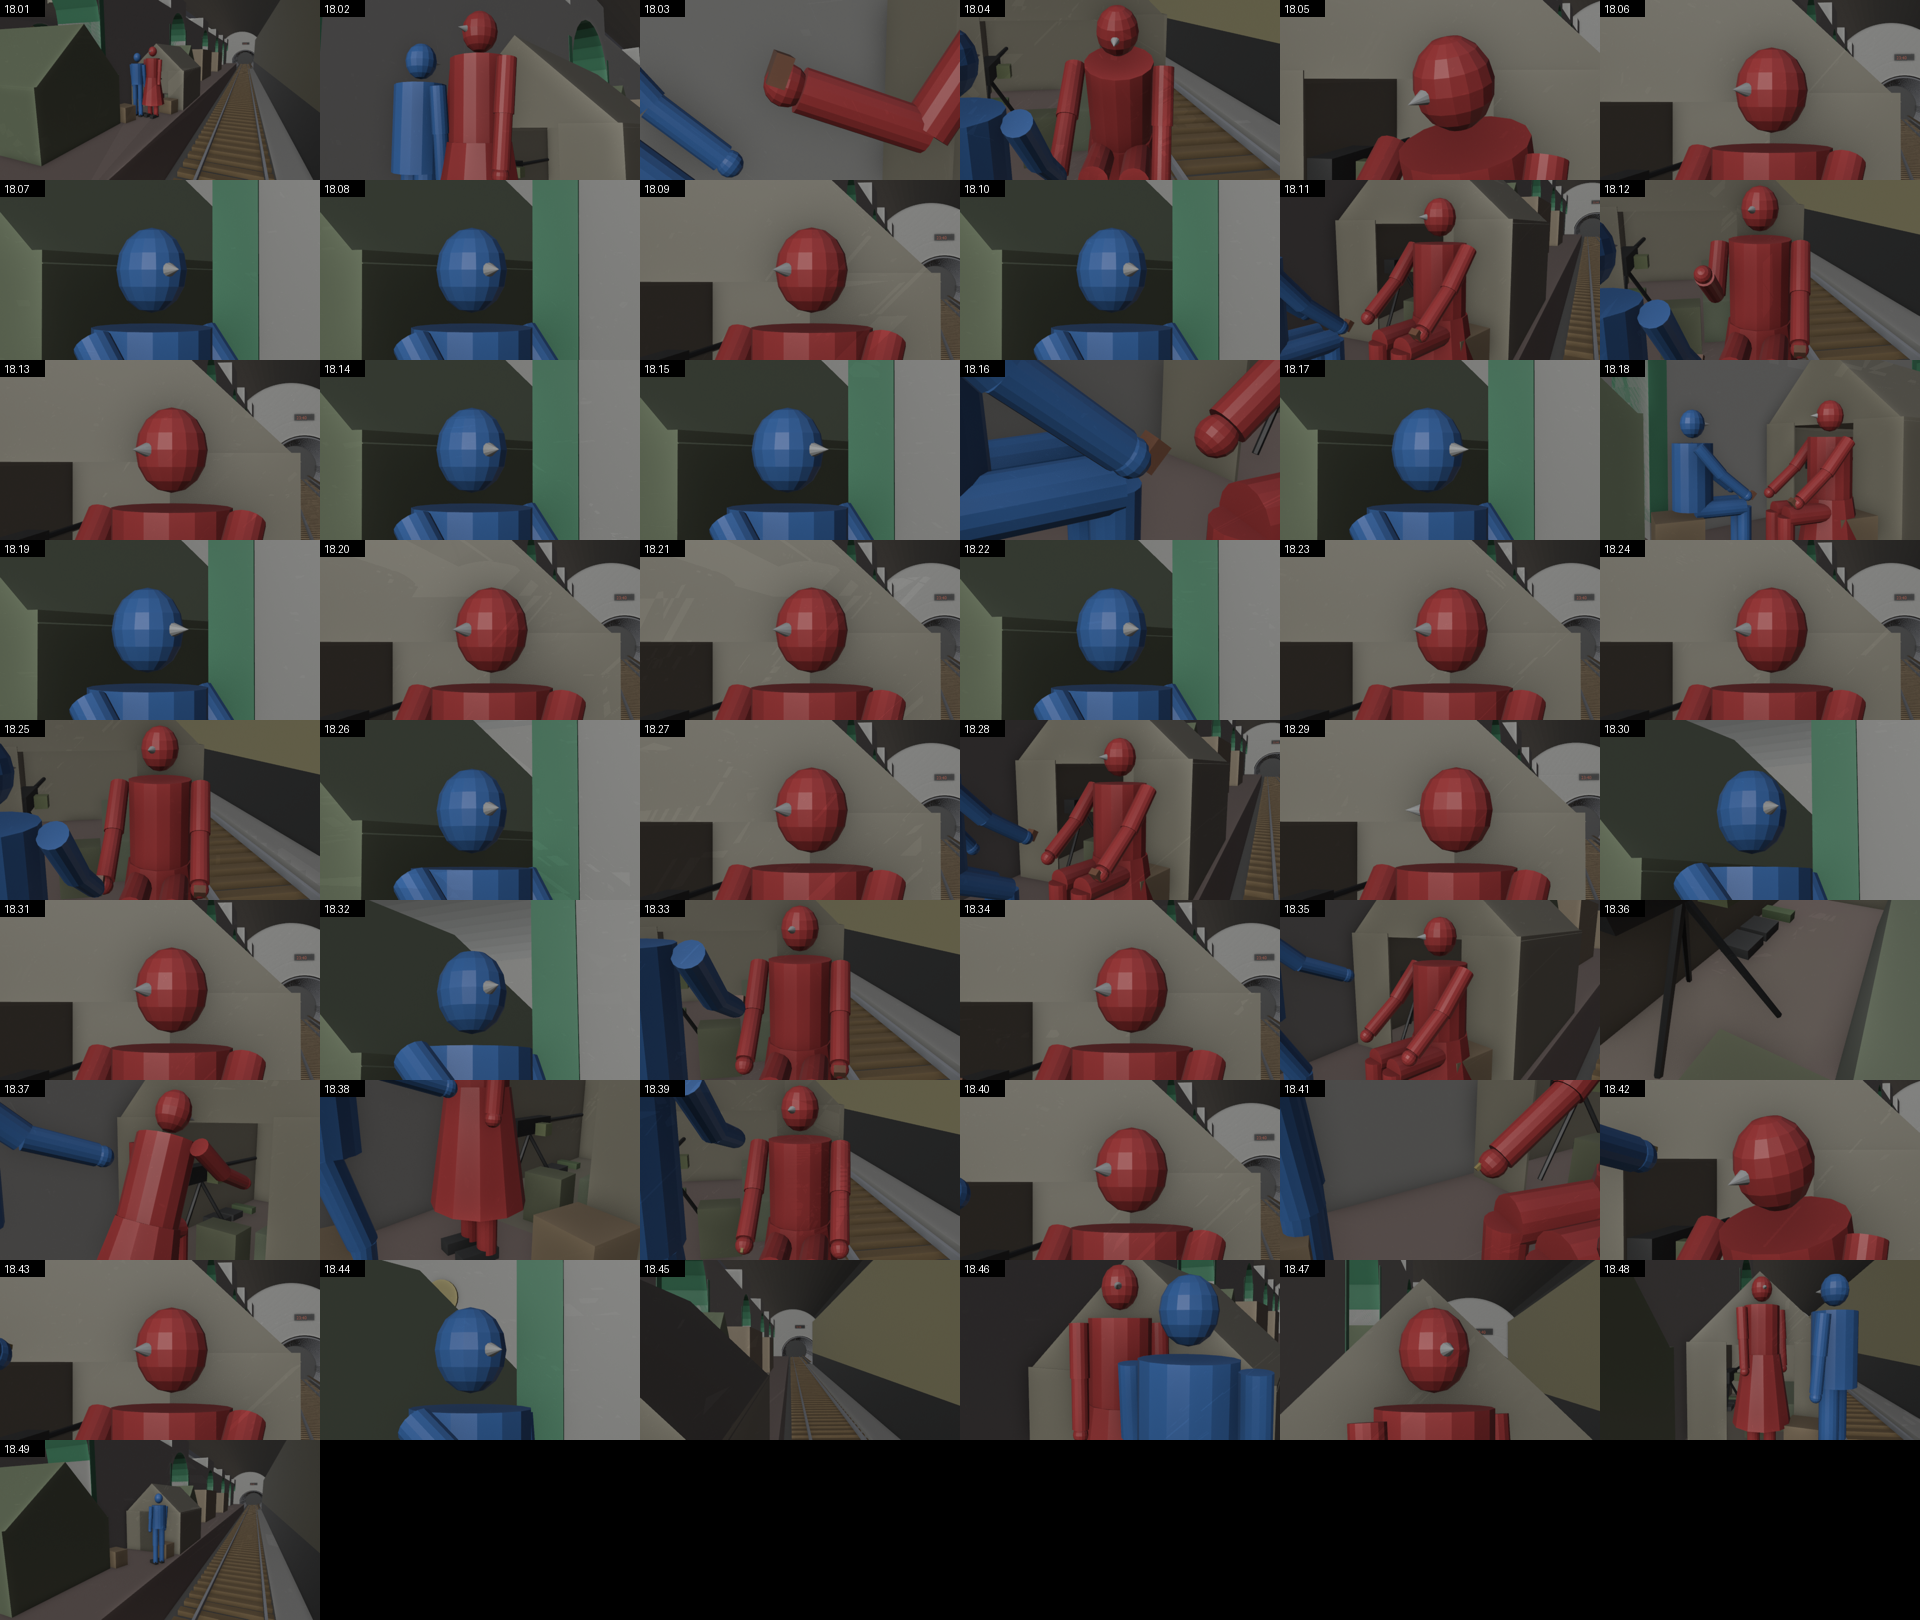
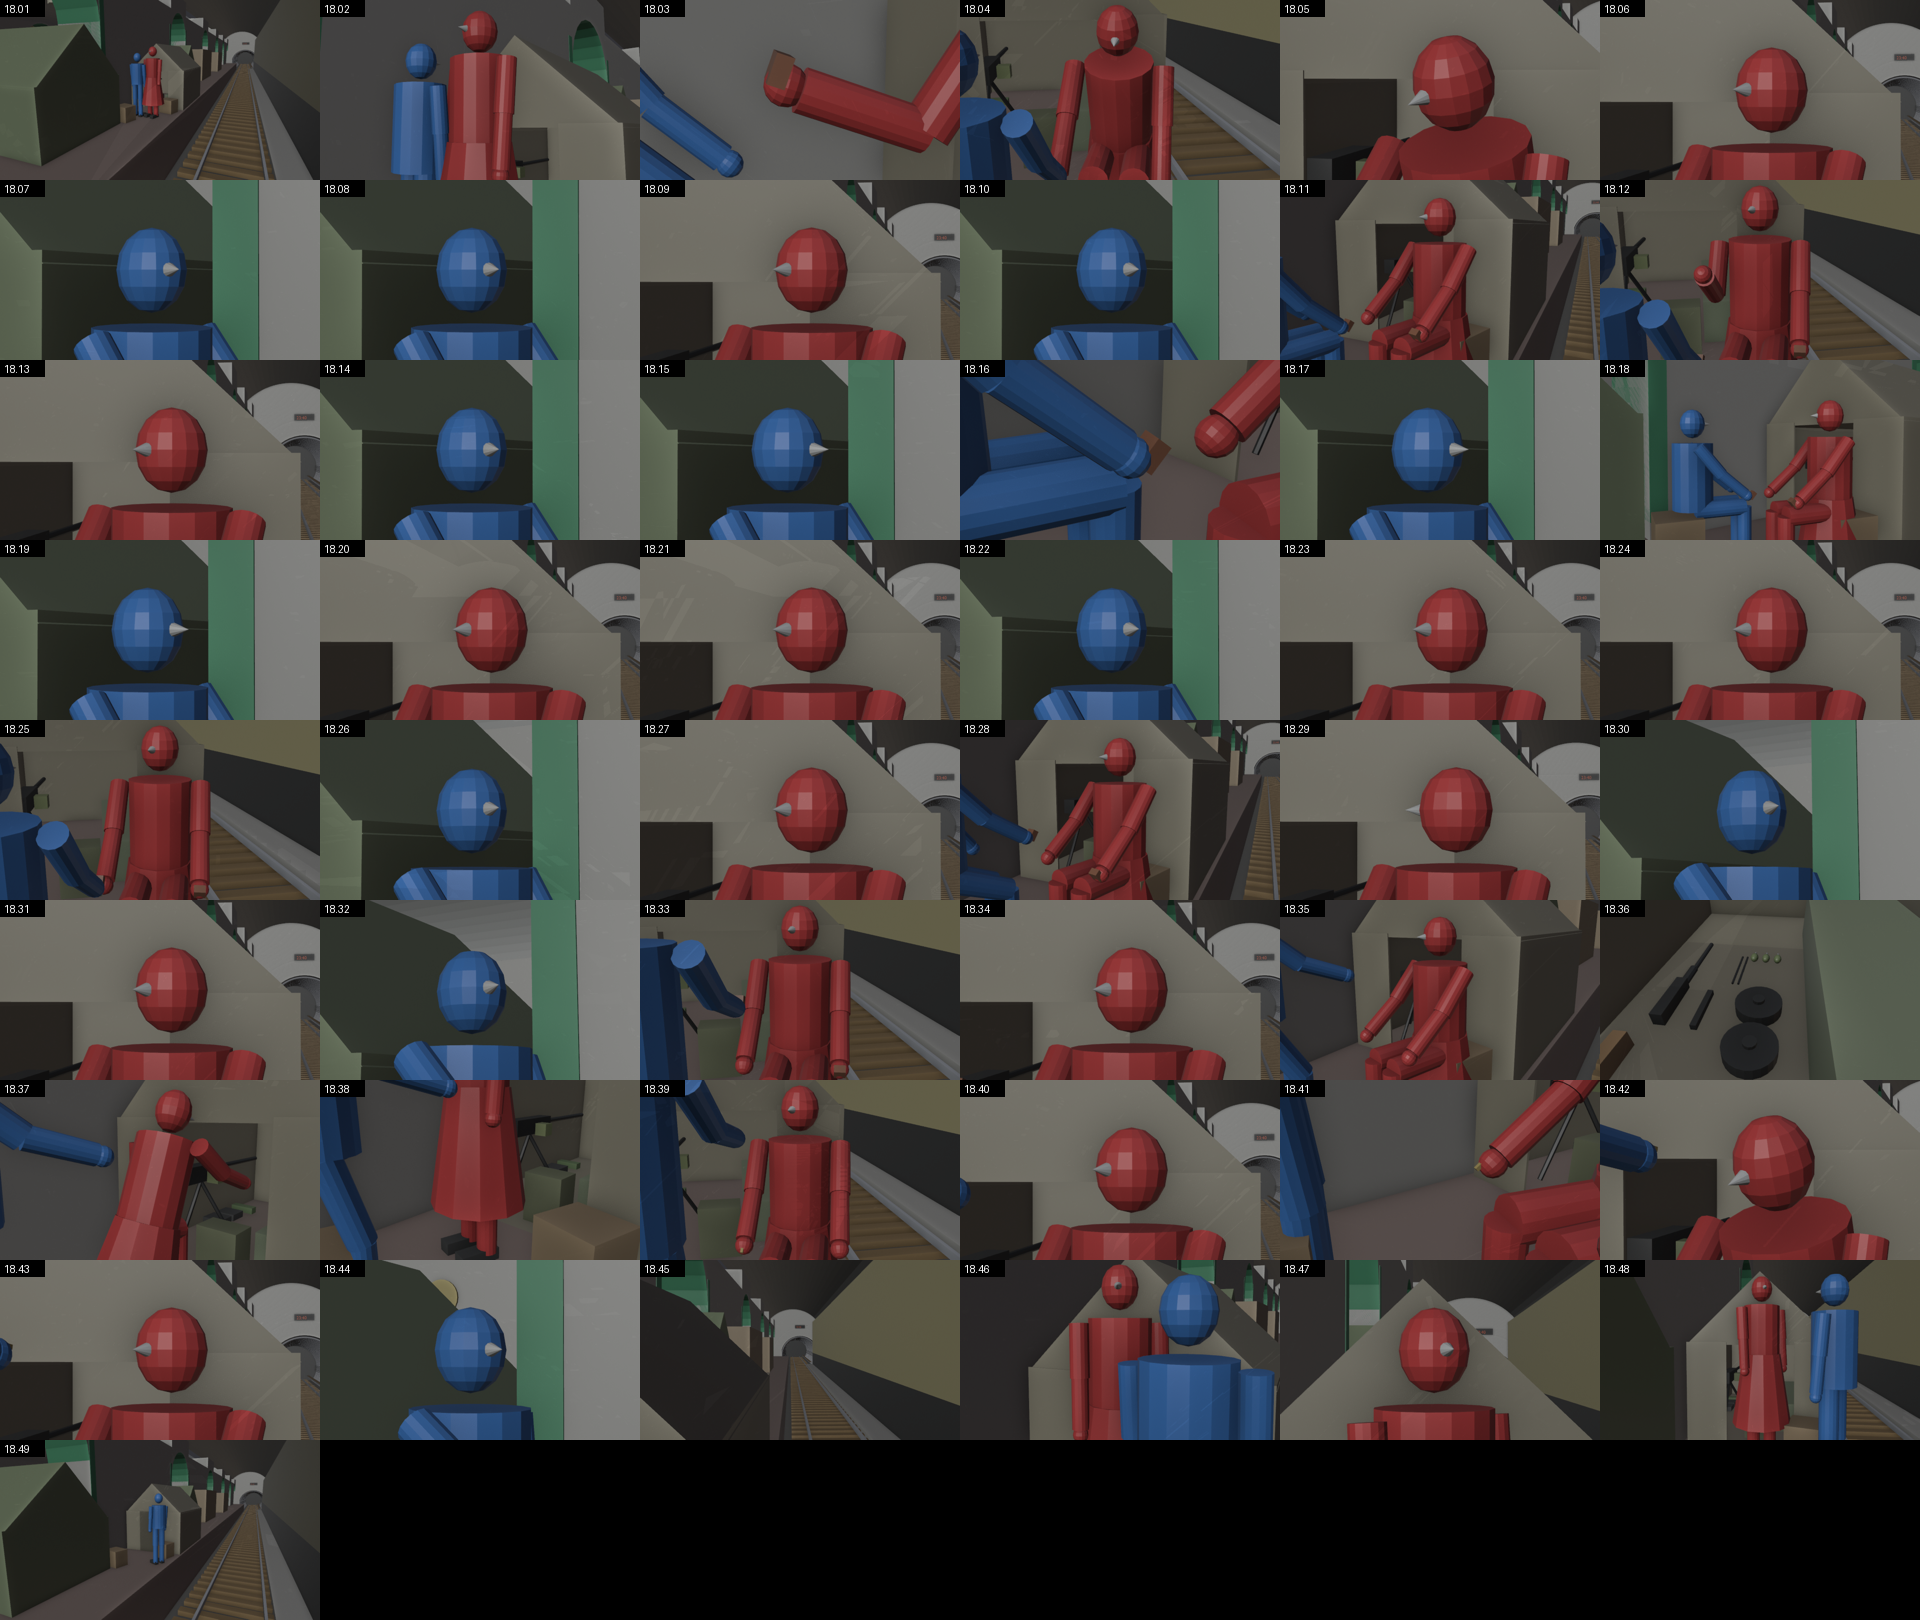
1301: 18.36 field-stripped LMG on a blanket (lmg_stripped), DP pan magazines (drum_mag), F-1 grenades (grenades); camera re-aimed

Changed region(s): [[0.8125, 0.5556, 1.0, 0.679]]

diff --git a/screenplay/env-review/renders/src/lib/kit.py b/screenplay/env-review/renders/src/lib/kit.py
@@ -549,6 +549,45 @@ def machine_gun(name):
     return root
 
 
+def lmg_stripped(name):
+    """Light machine gun (DP-type) field-stripped on a blanket, lying flat, parts apart along +Y:
+    stock, receiver, bolt carrier, barrel, folded bipod. Origin = blanket centre on the floor."""
+    root = empty(name)
+    g = mat("gunmetal", (0.03, 0.03, 0.03), flat=(0.05, 0.05, 0.05), rough=0.4, metal=0.7)
+    wood = mat("gun_wood", (0.18, 0.09, 0.04), flat=(0.45, 0.28, 0.15))
+    cloth = mat("blanket", (0.10, 0.09, 0.07), flat=(0.40, 0.36, 0.28))
+    attach(box((1.05, 1.40, 0.01), (0, 0, 0), cloth, name=f"{name}.blanket"), root, (0.12, 0, 0.005))
+    attach(box((0.07, 0.30, 0.10), (0, 0, 0), wood, name=f"{name}.stock"), root, (-0.24, -0.58, 0.06))
+    attach(box((0.07, 0.34, 0.08), (0, 0, 0), g, name=f"{name}.receiver"), root, (-0.15, -0.12, 0.05))
+    attach(box((0.035, 0.30, 0.035), (0, 0, 0), g, name=f"{name}.bolt"), root, (0.05, -0.15, 0.03))
+    attach(cyl(0.018, 0.62, (0, 0, 0), g, (math.pi / 2, 0, 0), 10, f"{name}.barrel"), root, (-0.15, 0.33, 0.03))
+    attach(cyl(0.03, 0.22, (0, 0, 0), g, (math.pi / 2, 0, 0), 10, f"{name}.shroud"), root, (-0.15, 0.12, 0.04))
+    for dx in (0.16, 0.20):  # bipod legs folded side by side
+        attach(cyl(0.008, 0.36, (0, 0, 0), g, (math.pi / 2, 0, 0), 6, f"{name}.bipod"), root, (dx, 0.30, 0.02))
+    return root
+
+
+def drum_mag(name):
+    """DP pan magazine lying flat: a black disc ~0.27 m across, 0.08 m thick, with a raised centre hub."""
+    root = empty(name)
+    g = mat("gunmetal", (0.03, 0.03, 0.03), flat=(0.05, 0.05, 0.05), rough=0.4, metal=0.7)
+    attach(cyl(0.135, 0.07, (0, 0, 0), g, verts=24, name=f"{name}.pan"), root, (0, 0, 0.035))
+    attach(cyl(0.035, 0.02, (0, 0, 0), g, verts=12, name=f"{name}.hub"), root, (0, 0, 0.08))
+    return root
+
+
+def grenades(name, n=3):
+    """F-1 grenades lying on their sides in a row along +X: olive egg bodies ~0.055 x 0.12 m with a grey fuse."""
+    root = empty(name)
+    olive = mat("grenade", (0.10, 0.13, 0.06), flat=(0.30, 0.38, 0.18), rough=0.6)
+    fuse = mat("fuse", (0.25, 0.25, 0.25), flat=(0.55, 0.55, 0.55), rough=0.4, metal=0.6)
+    for i in range(n):
+        x = (i - (n - 1) / 2) * 0.09
+        attach(sphere(0.03, (0, 0, 0), olive, f"{name}.body", scale=(1, 1.5, 1)), root, (x, 0, 0.03))
+        attach(cyl(0.008, 0.035, (0, 0, 0), fuse, (math.pi / 2, 0, 0), 8, f"{name}.fuse"), root, (x, 0.06, 0.03))
+    return root
+
+
 def searchlight(name, handheld=False):
     """Searchlight housing (cylinder with a glowing lens) facing +Y; pair it with a spot light in the spec."""
     root = empty(name)
